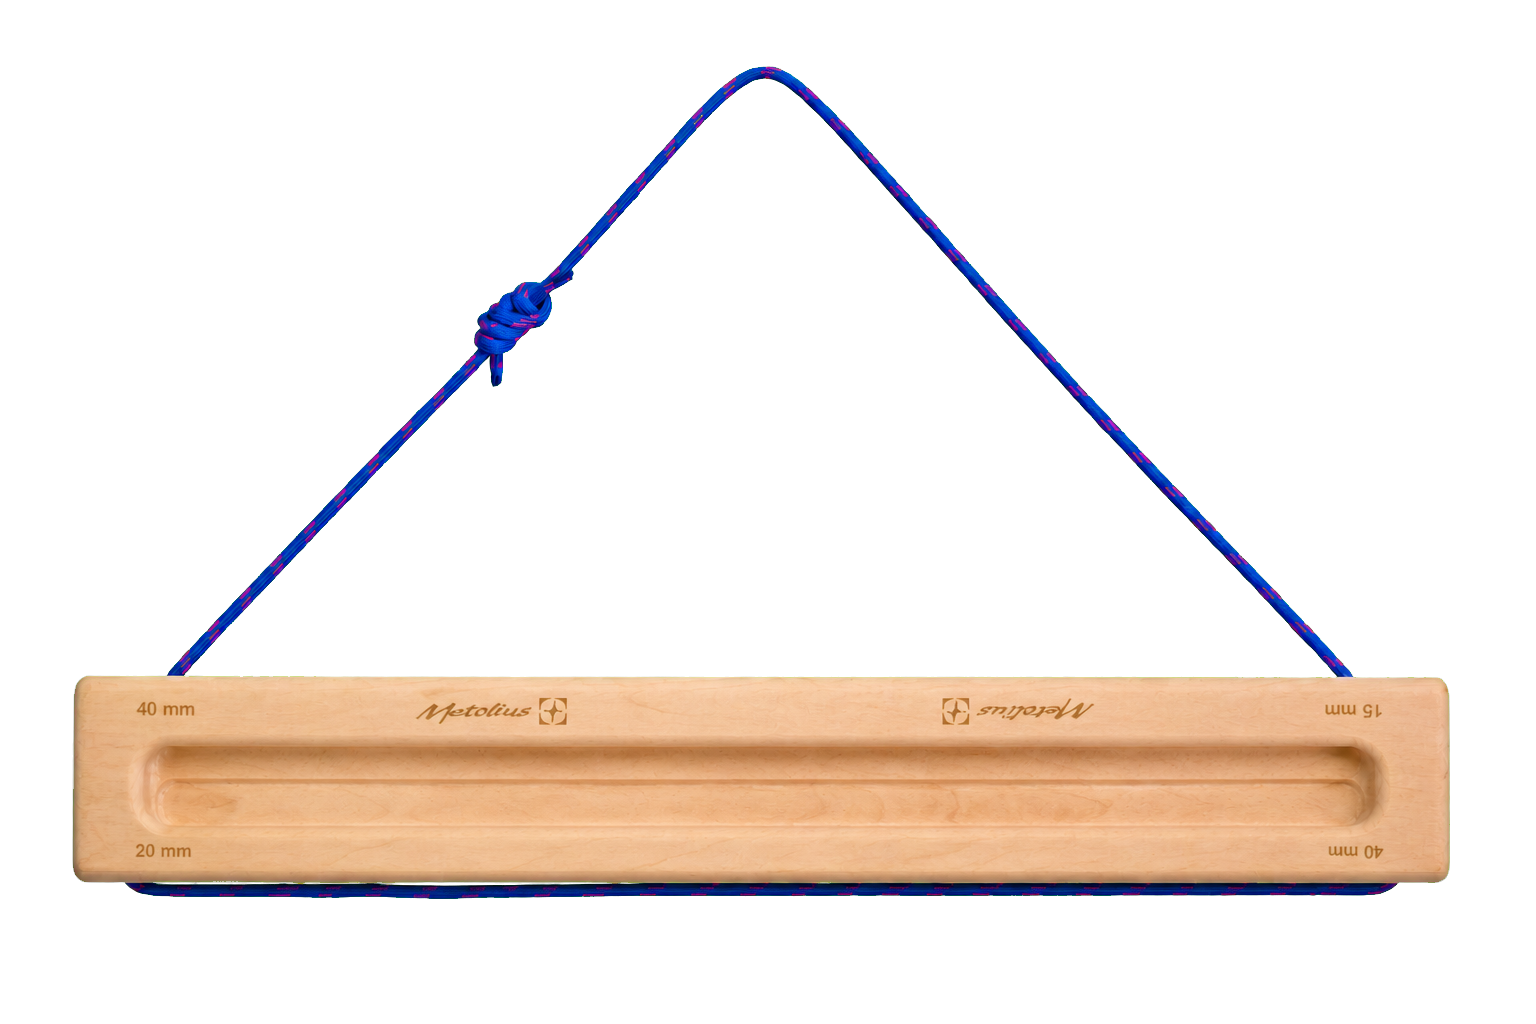
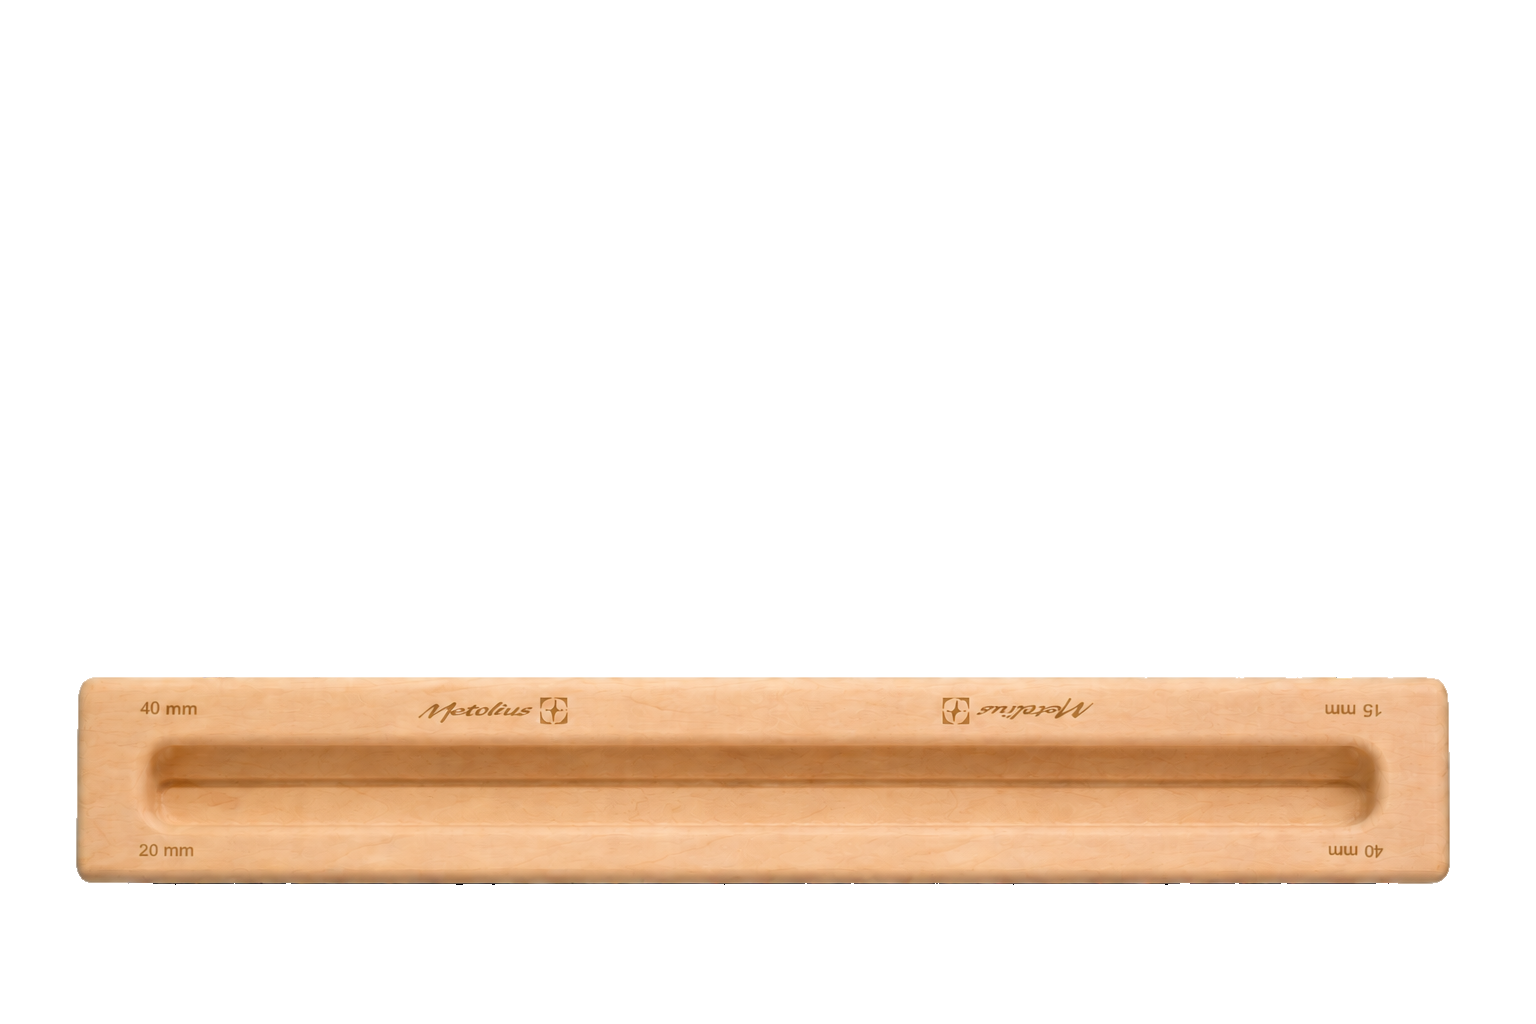
Use shared dynamic cords for Light Rail positions

diff --git a/Tools/HangboardPackages/tests/test_approved_board_packages.py b/Tools/HangboardPackages/tests/test_approved_board_packages.py
@@ -583,22 +583,28 @@ def test_light_rail_package_freezes_the_official_reversible_inventory() -> None:
 
     assert board["id"] == "metolius.light-rail-2"
     assert board["dimensions"] == "18 × 3 × 1.5 in"
-    assert board["presentations"] == [
-        {
-            "id": "20mm-side",
-            "name": "40 mm jug and 20 mm edge",
-            "assetPath": "assets/primary.png",
-            "aspectRatio": 1.5,
-            "default": True,
-        },
-        {
-            "id": "15mm-side",
-            "name": "40 mm jug and 15 mm edge",
-            "assetPath": "assets/15mm-surface.png",
-            "aspectRatio": 1.5,
-            "default": False,
-        },
+    twenty_side, fifteen_side = board["presentations"]
+    assert twenty_side["id"] == "20mm-side"
+    assert twenty_side["assetPath"] == "assets/primary.png"
+    assert twenty_side["default"] is True
+    assert twenty_side["availableHoldIDs"] == [
+        "jug-40-20mm-side",
+        "edge-20",
     ]
+    assert twenty_side["cordRig"]["type"] == "routed"
+    assert twenty_side["cordRig"]["tensionGroups"][0]["pairing"] == "screenOrder"
+
+    assert fifteen_side == {
+        "id": "15mm-side",
+        "name": "40 mm jug and 15 mm edge",
+        "assetPath": "assets/primary.png",
+        "aspectRatio": 1.5,
+        "default": False,
+        "sourcePresentationID": "20mm-side",
+        "availableHoldIDs": ["jug-40-15mm-side", "edge-15"],
+        "rotationDegrees": 180,
+        "geometryRotationAnchor": {"x": 0.5, "y": 0.76220703125},
+    }
 
     assert tuple(
         (
@@ -623,9 +629,9 @@ def test_light_rail_package_freezes_the_official_reversible_inventory() -> None:
             "40 mm rounded jug on 15 mm side",
             "jug",
             40,
-            "15mm-side",
+            "20mm-side",
         ),
-        ("edge-15", "15 mm edge", "edge", 15, "15mm-side"),
+        ("edge-15", "15 mm edge", "edge", 15, "20mm-side"),
     )
     assert all(len(hold["geometry"]) == 1 for hold in board["holds"])
     assert all(
@@ -638,7 +644,6 @@ def test_light_rail_package_freezes_the_official_reversible_inventory() -> None:
 
     for asset_path, expected_size in {
         "assets/primary.png": (1536, 1024),
-        "assets/15mm-surface.png": (1536, 1024),
     }.items():
         with Image.open(LIGHT_RAIL_ROOT / asset_path) as image:
             assert image.format == "PNG"
